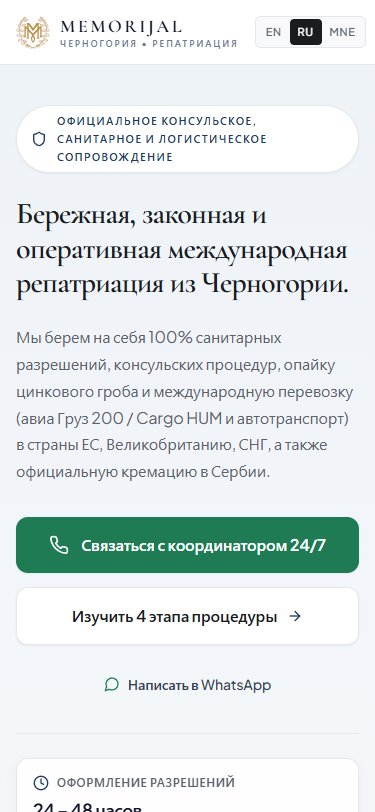
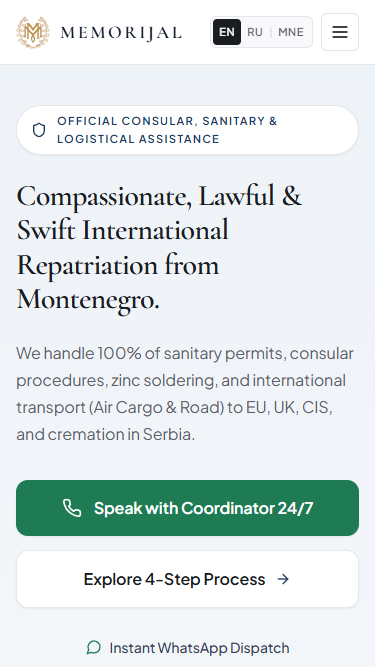
feat: add layout auditing and visual review automation scripts alongside core UI components

diff --git a/src/components/PricingSection.tsx b/src/components/PricingSection.tsx
@@ -66,55 +66,60 @@ export const PricingSection: React.FC<PricingSectionProps> = ({ lang }) => {
           </p>
         </div>
 
-        {/* 5 Standard Service Package Cards */}
-        <div className="mt-10 grid grid-cols-1 md:grid-cols-2 lg:grid-cols-3 gap-6">
+        {/*
+          5 Standard Service Package Cards.
+          Each card is a subgrid spanning 5 shared rows (badge / title / price / scope / CTA), so
+          every row is sized to the tallest cell in the row of cards: titles, prices, scope text
+          and CTA buttons align identically no matter how the copy wraps per locale or breakpoint.
+        */}
+        <div className="mt-10 grid grid-cols-1 md:grid-cols-2 lg:grid-cols-3 gap-x-6 gap-y-6 items-stretch">
           {STANDARD_PRICING_PACKAGES.map((pkg, idx) => {
             const item = pkg.locales[locale];
             const isPrimary = idx === 0;
             return (
               <div
                 key={pkg.id}
-                className={`rounded-2xl border p-6 sm:p-7 flex flex-col justify-between transition-all bg-white shadow-card ${
+                className={`row-span-5 grid grid-rows-subgrid gap-y-0 h-full min-w-0 rounded-2xl border p-6 sm:p-7 transition-all bg-white shadow-card ${
                   isPrimary
                     ? 'border-sapphire/40 ring-1 ring-sapphire/15'
                     : 'border-stoneBorder'
                 }`}
               >
-                <div>
-                  {/* Package Badge */}
-                  <div className="inline-flex items-center gap-1.5 px-3 py-1 rounded-full bg-porcelain border border-stoneBorder text-[11px] font-semibold text-sapphire">
+                {/* Row 1: Package Badge */}
+                <div className="min-h-[28px]">
+                  <div className="inline-flex items-center gap-1.5 px-3 py-1 rounded-full bg-porcelain border border-stoneBorder text-[11px] font-semibold text-sapphire max-w-full">
                     <CheckCircle2 className="w-3.5 h-3.5 text-forest shrink-0" />
-                    <span>{item.badge}</span>
+                    <span className="min-w-0 break-words">{item.badge}</span>
                   </div>
+                </div>
 
-                  {/* Package Title */}
-                  <h3 className="mt-4 font-serif text-xl sm:text-2xl font-semibold text-slateDeep leading-snug">
-                    {item.title}
-                  </h3>
+                {/* Row 2: Package Title */}
+                <h3 className="mt-4 font-serif text-xl sm:text-2xl font-semibold text-slateDeep leading-snug break-words">
+                  {item.title}
+                </h3>
 
-                  {/* Headline Starting Price Tag */}
-                  <div className="mt-5 pt-4 border-t border-stoneBorder">
-                    <span className="text-[11px] font-semibold uppercase tracking-wider text-warmStone block">
-                      {sectionCopy.startingLabel}
-                    </span>
-                    <p className="mt-1 font-serif text-3xl sm:text-4xl font-bold text-sapphire tracking-tight">
-                      {item.formattedPrice}
-                    </p>
-                    {/* Subtle Clarification Badge Under Price */}
-                    <p className="mt-2 inline-flex items-start gap-1.5 text-[11px] text-slateMuted bg-porcelain px-2.5 py-1.5 rounded-lg border border-stoneBorder/80 leading-snug">
-                      <FileCheck className="w-3.5 h-3.5 text-sapphire shrink-0 mt-0.5" />
-                      <span>{item.clarification}</span>
-                    </p>
-                  </div>
-
-                  {/* Included Subtext */}
-                  <p className="mt-4 text-xs sm:text-sm text-slateMuted leading-relaxed">
-                    {item.subtext}
+                {/* Row 3: Headline Starting Price Tag */}
+                <div className="mt-5 pt-4 border-t border-stoneBorder">
+                  <span className="text-[11px] font-semibold uppercase tracking-wider text-warmStone block">
+                    {sectionCopy.startingLabel}
+                  </span>
+                  <p className="mt-1 font-serif text-3xl sm:text-4xl font-bold text-sapphire tracking-tight">
+                    {item.formattedPrice}
+                  </p>
+                  {/* Subtle Clarification Badge Under Price */}
+                  <p className="mt-2 inline-flex items-start gap-1.5 text-[11px] text-slateMuted bg-porcelain px-2.5 py-1.5 rounded-lg border border-stoneBorder/80 leading-snug">
+                    <FileCheck className="w-3.5 h-3.5 text-sapphire shrink-0 mt-0.5" />
+                    <span>{item.clarification}</span>
                   </p>
                 </div>
 
-                {/* Direct WhatsApp Estimate CTA */}
-                <div className="mt-6 pt-4 border-t border-stoneBorder/70">
+                {/* Row 4: Included Subtext (absorbs spare height) */}
+                <p className="mt-4 text-xs sm:text-sm text-slateMuted leading-relaxed">
+                  {item.subtext}
+                </p>
+
+                {/* Row 5: Direct WhatsApp Estimate CTA, pinned to the card bottom */}
+                <div className="mt-6 pt-4 border-t border-stoneBorder/70 self-end">
                   <a
                     href={buildPackageWhatsAppHref(pkg, locale)}
                     target="_blank"

diff --git a/src/components/Navbar.tsx b/src/components/Navbar.tsx
@@ -188,12 +188,12 @@ export const Navbar: React.FC<NavbarProps> = ({
 
       {/* 2. Main Quiet Luxury / Swiss Minimal Navigation Header */}
       <div className="max-w-7xl mx-auto px-4 sm:px-6 lg:px-8">
-        <div className="flex items-center justify-between h-16 md:h-[74px] gap-4">
+        <div className="flex items-center justify-between h-16 md:h-[74px] gap-2 sm:gap-4 w-full min-w-0">
           {/* Left: Optically Balanced 1:1 Brand Crest & Semantic DOM Typography */}
           <a
             href={homePath}
             onClick={(e) => handleAnchorOrRoute(e, '#top')}
-            className="flex items-center gap-2.5 sm:gap-3 md:gap-3.5 select-none group focus:outline-none shrink-0"
+            className="flex items-center gap-2.5 sm:gap-3 md:gap-3.5 select-none group focus:outline-none shrink min-w-0"
           >
             <div className="relative flex items-center justify-center shrink-0 w-[34px] h-[34px] md:w-[38px] md:h-[38px]">
               <img
@@ -217,7 +217,7 @@ export const Navbar: React.FC<NavbarProps> = ({
               <span className="font-serif text-[18px] sm:text-[19px] md:text-[21px] tracking-[0.14em] font-semibold text-slate-900 leading-none">
                 MEMORIJAL
               </span>
-              <span className="text-[9px] md:text-[10px] tracking-[0.22em] text-slate-500 uppercase font-sans font-medium mt-1 leading-none">
+              <span className="hidden min-[480px]:block text-[9px] md:text-[10px] tracking-[0.22em] text-slate-500 uppercase font-sans font-medium mt-1 leading-none whitespace-nowrap">
                 {lang === 'RU'
                   ? 'ЧЕРНОГОРИЯ • РЕПАТРИАЦИЯ'
                   : lang === 'MNE'
@@ -283,7 +283,7 @@ export const Navbar: React.FC<NavbarProps> = ({
           </nav>
 
           {/* Right: Clean Low-Border Language Switcher (EN | RU | MNE) & Solid Forest Green CTA */}
-          <div className="flex items-center gap-2.5 sm:gap-3 shrink-0">
+          <div className="flex items-center gap-2 sm:gap-3 shrink-0">
             <div
               className="inline-flex items-center bg-[#F9F9FB] p-0.5 rounded-md border border-[#E5E7EB]"
               role="group"
@@ -305,7 +305,7 @@ export const Navbar: React.FC<NavbarProps> = ({
                     <button
                       type="button"
                       onClick={() => setLang(code)}
-                      className={`px-2 py-1 rounded text-[11px] font-medium tracking-wider transition-all ${
+                      className={`px-1.5 sm:px-2 py-1 rounded text-[11px] font-medium tracking-wider transition-all ${
                         active
                           ? 'bg-[#1A1D20] text-white shadow-xs'
                           : 'text-[#5A626A] hover:text-[#1A1D20]'

diff --git a/src/index.css b/src/index.css
@@ -15,17 +15,29 @@
 }
 
 @layer base {
+  /*
+   * Root viewport containment (safety net; the real fixes are in the components).
+   * Uses `overflow-x: clip` instead of `hidden`: `hidden` on both html and body makes
+   * <body> a scroll container, which would break the `sticky top-0` header.
+   * `100%` rather than `100vw`: vw includes the desktop scrollbar and itself overflows.
+   */
   html {
     font-family: 'Plus Jakarta Sans', -apple-system, BlinkMacSystemFont, 'Segoe UI', Roboto, sans-serif;
     color: var(--text-primary);
     background-color: var(--bg-porcelain);
     scroll-behavior: smooth;
+    overflow-x: clip;
+    width: 100%;
+    max-width: 100%;
   }
 
   body {
     line-height: 1.65;
     letter-spacing: -0.005em;
-    overflow-x: hidden;
+    overflow-x: clip;
+    width: 100%;
+    max-width: 100%;
+    position: relative;
   }
 
   h1, h2, h3, .font-serif-heading {

diff --git a/src/components/ProcedureTimeline.tsx b/src/components/ProcedureTimeline.tsx
@@ -50,7 +50,7 @@ export const ProcedureTimeline: React.FC<ProcedureTimelineProps> = ({ t }) => {
             >
               <div>
                 {/* Step Number & Timeframe Pill */}
-                <div className="flex items-center justify-between gap-2 mb-6">
+                <div className="flex items-start justify-between gap-2 mb-6">
                   <div className="flex items-center gap-2.5">
                     <span className="font-serif text-3xl font-bold text-sapphire leading-none">
                       {step.number}

diff --git a/src/components/Hero.tsx b/src/components/Hero.tsx
@@ -125,7 +125,7 @@ export const Hero: React.FC<HeroProps> = ({ lang, t, onOpenModal }) => {
             </div>
 
             {/* Dignified Serif Headline */}
-            <h1 className="font-serif text-3xl sm:text-5xl lg:text-[52px] font-semibold text-slateDeep leading-[1.14] tracking-tight">
+            <h1 className="font-serif text-3xl sm:text-5xl lg:text-[52px] font-semibold text-slateDeep leading-[1.14] tracking-tight break-words hyphens-auto max-w-full">
               {t.hero.headline}
             </h1>
 
